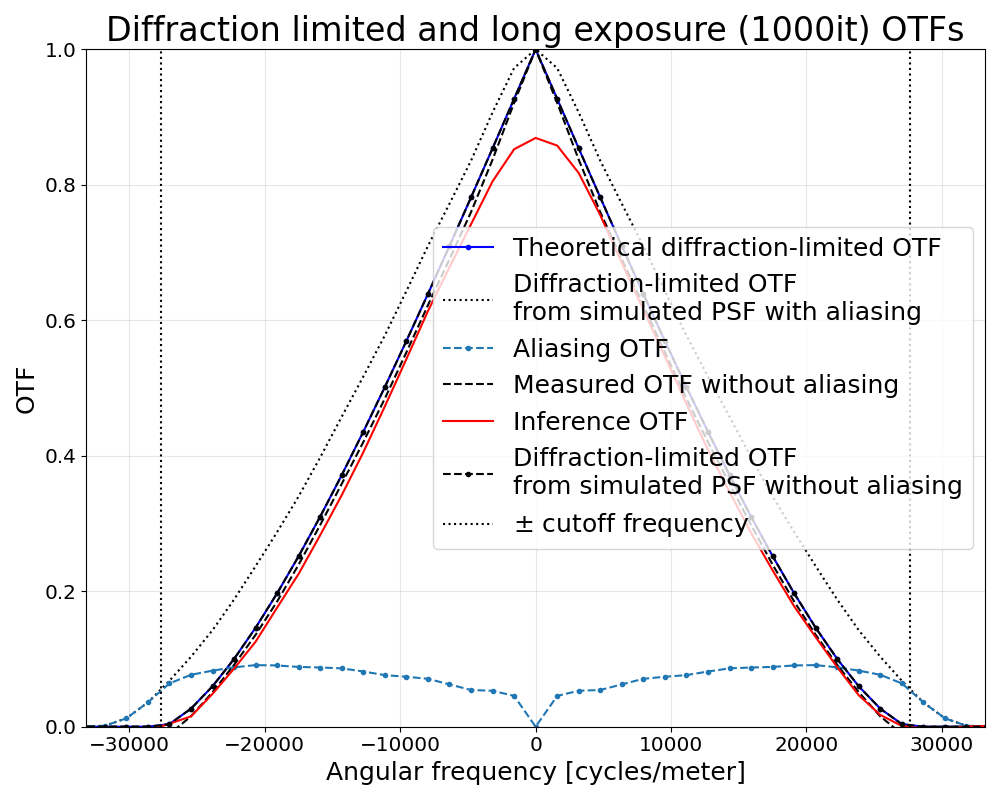
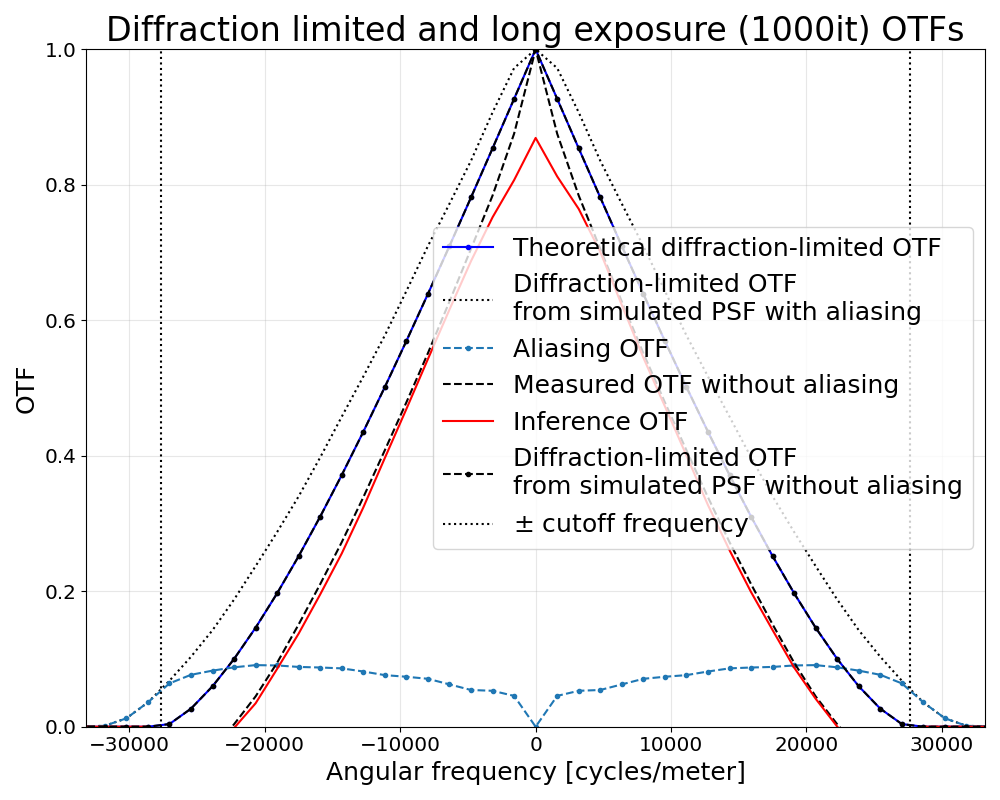
corrected otf postprocessing again

diff --git a/postprocessing_otf.py b/postprocessing_otf.py
@@ -92,10 +92,10 @@ for dataset_number in range(dataset_numbers):
     OTF_ipsf_difflim = np.abs(myfunctions.otf_from_psf(padded_ipsf_difflim))
     OTF_tel = myfunctions.telescope_otf(nu_n_grid)
     OTF_aliasing = OTF_ipsf_difflim - OTF_tel
-    OTF_truths = (truths[...,:,:] - OTF_aliasing)*FREQ_MASK
-    # OTF_truths = truths[...,:,:]
-    OTF_inferences = (inferences[...,:,:] - OTF_aliasing)*FREQ_MASK
-    # OTF_inferences = inferences[...,:,:]
+    # OTF_truths = (truths[...,:,:] - OTF_aliasing)*FREQ_MASK
+    OTF_truths = truths[...,:,:]
+    # OTF_inferences = (inferences[...,:,:] - OTF_aliasing)*FREQ_MASK
+    OTF_inferences = inferences[...,:,:]
 
     inference_Strehls = np.sum(OTF_inferences, axis=(-2, -1)) / np.sum(OTF_tel*FREQ_MASK)
     truths_Strehls = np.sum(OTF_truths, axis=(-2, -1)) / np.sum(OTF_tel*FREQ_MASK)
@@ -170,10 +170,12 @@ for dataset_number in range(dataset_numbers):
     # FWMH
 
     otf = OTF_inferences#myfunctions.otf_from_psf(padded_inferences)
-    psfs_inferred_from_otf = ((np.fft.fftshift(np.fft.ifft2(np.fft.ifftshift(otf, axes=(-2, -1)), axes=(-2, -1)), axes=(-2, -1))).real)**2#myfunctions.otf_to_psf(otf,padded_inferences[...,:,:].sum())
-
+    psfs_inferred_from_otf = myfunctions.otf_to_psf(otf,padded_ipsf_difflim.sum())
+    # psfs_inferred_from_otf = ((np.fft.fftshift(np.fft.ifft2(np.fft.ifftshift(otf, axes=(-2, -1)), axes=(-2, -1)), axes=(-2, -1))).real)**2
     otf_real = OTF_truths#myfunctions.otf_from_psf(padded_truth)
-    psfs_truth_from_otf = ((np.fft.fftshift(np.fft.ifft2(np.fft.ifftshift(otf_real, axes=(-2, -1)), axes=(-2, -1)), axes=(-2, -1))).real)**2#myfunctions.otf_to_psf(otf_real,padded_truth[...,:,:].sum())
+    psfs_truth_from_otf = myfunctions.otf_to_psf(otf_real,padded_ipsf_difflim.sum())
+    # psfs_truth_from_otf = ((np.fft.fftshift(np.fft.ifft2(np.fft.ifftshift(otf_real, axes=(-2, -1)), axes=(-2, -1)), axes=(-2, -1))).real)**2
+
     print("Data transformed from OTF to PSF.")
     inferred_FWHM_x = []
     inferred_FWHM_y = []

diff --git a/postprocessing_otf_long.py b/postprocessing_otf_long.py
@@ -130,9 +130,12 @@ for dataset_number in range(dataset_numbers):
 
         plt.savefig(outputDir + datasets_name[dataset_number]+"_long"+f"/{datasets_name[dataset_number]}_OTF{exposure}.png")
 
-        psfs_inferred_from_otf[i] = ((np.fft.fftshift(np.fft.ifft2(np.fft.ifftshift(OTF_inferences[i], axes=(-2, -1)), axes=(-2, -1)), axes=(-2, -1))).real)**2
-        psfs_truth_from_otf[i] = ((np.fft.fftshift(np.fft.ifft2(np.fft.ifftshift(OTF_truths[i], axes=(-2, -1)), axes=(-2, -1)), axes=(-2, -1))).real)**2
-
+        # psfs_inferred_from_otf[i] = ((np.fft.fftshift(np.fft.ifft2(np.fft.ifftshift(OTF_inferences[i], axes=(-2, -1)), axes=(-2, -1)), axes=(-2, -1))).real)**2
+        # psfs_truth_from_otf[i] = ((np.fft.fftshift(np.fft.ifft2(np.fft.ifftshift(OTF_truths[i], axes=(-2, -1)), axes=(-2, -1)), axes=(-2, -1))).real)**2
+        otf = OTF_inferences#myfunctions.otf_from_psf(padded_inferences)
+        psfs_inferred_from_otf[i] = myfunctions.otf_to_psf(otf[i],padded_ipsf_difflim.sum())
+        otf_real = OTF_truths#myfunctions.otf_from_psf(padded_truth)
+        psfs_truth_from_otf[i] = myfunctions.otf_to_psf(otf_real[i],padded_ipsf_difflim.sum())
 
     truths_Strehls = np.asarray(truths_Strehls)
     inference_Strehls = np.asarray(inference_Strehls)
